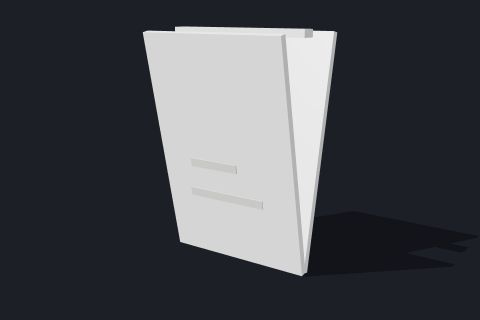
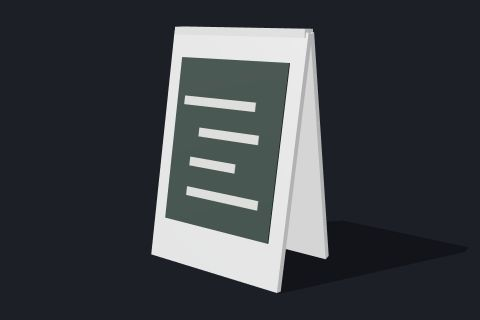
Furniture: the bench backrest and its iron uprights recline instead of leaning over the seat, the bistro chair backs lean away from the table, the utility pole braces rise from the pole to the crossarm, the A-frame's chalk panel and lines turn with their board; catalogue thumbnails rerendered (count

Changed region(s): [[0.2812, 0.0938, 0.7188, 0.9375]]

diff --git a/src/world/Furniture.js b/src/world/Furniture.js
@@ -158,10 +158,10 @@ const BUILDERS = {
   /** Slatted bench with cast-iron ends (seat faces -Z). */
   bench: (B) => {
     for (let k = 0; k < 3; k++) B.box(0, 0.45, -0.18 + k * 0.13, 1.8, 0.035, 0.1, FM.slat);
-    for (let k = 0; k < 2; k++) B.box(0, 0.62 + k * 0.15, 0.13 + k * 0.035, 1.8, 0.1, 0.03, FM.slat, { pitch: -0.25 });
+    for (let k = 0; k < 2; k++) B.box(0, 0.62 + k * 0.15, 0.13 + k * 0.035, 1.8, 0.1, 0.03, FM.slat, { pitch: 0.25 }); // +pitch: tops lean back (+Z), away from the seat
     for (const x of [-0.78, 0.78]) {
       B.box(x, 0.22, -0.2, 0.06, 0.46, 0.05, FM.iron);
-      B.box(x, 0.42, 0.14, 0.06, 0.84, 0.05, FM.iron, { pitch: -0.2 });
+      B.box(x, 0.42, 0.14, 0.06, 0.84, 0.05, FM.iron, { pitch: 0.2 }); // rear upright: foot under the seat, top behind the slats
       B.box(x, 0.62, -0.05, 0.06, 0.04, 0.42, FM.iron);
     }
   },
@@ -214,10 +214,15 @@ const BUILDERS = {
   /** Sidewalk A-frame (sandwich) board: two chalkboards leaning together; frame painted (instance colour). Boards face +-Z. */
   aframe: (B) => {
     for (const sg of [-1, 1]) {
-      const o = { pitch: -sg * 0.2 }; // tops lean in to meet under the hinge bar, feet splayed (+sg pitch stood it on its point)
-      B.box(0, 0.47, sg * 0.1, 0.62, 0.94, 0.028, FM.paint, o);
-      B.box(0, 0.5, sg * 0.117, 0.5, 0.66, 0.006, FM.chalk, o);
-      for (let k = 0; k < 4; k++) B.box(-0.04 + (k % 2) * 0.06, 0.66 - k * 0.12, sg * 0.122, 0.34 - (k % 3) * 0.06, 0.035, 0.004, FM.chalkText, o);
+      const a = -sg * 0.2, o = { pitch: a }; // tops lean in to meet under the hinge bar, feet splayed (+sg pitch stood it on its point)
+      // a part at height y and depth d off the board's centre plane, turned with the board about its centre (0.47, sg * 0.1)
+      const on = (x, y, d, sx, sy, sz, m) => {
+        const dy = y - 0.47, dz = sg * d;
+        B.box(x, 0.47 + dy * Math.cos(a) - dz * Math.sin(a), sg * 0.1 + dy * Math.sin(a) + dz * Math.cos(a), sx, sy, sz, m, o);
+      };
+      on(0, 0.47, 0, 0.62, 0.94, 0.028, FM.paint);
+      on(0, 0.5, 0.017, 0.5, 0.66, 0.006, FM.chalk);
+      for (let k = 0; k < 4; k++) on(-0.04 + (k % 2) * 0.06, 0.66 - k * 0.12, 0.022, 0.34 - (k % 3) * 0.06, 0.035, 0.004, FM.chalkText);
     }
     B.box(0, 0.93, 0, 0.6, 0.03, 0.06, FM.paint);
   },
@@ -229,8 +234,14 @@ const BUILDERS = {
       const x = sg * 0.62;
       for (const [lx, lz] of [[-0.17, -0.17], [0.17, -0.17], [0.17, 0.17], [-0.17, 0.17]]) B.box(x + lx, 0.22, lz, 0.025, 0.44, 0.025, FM.paint);
       B.box(x, 0.45, 0, 0.42, 0.03, 0.42, FM.teak);
-      B.box(x + sg * 0.2, 0.68, 0, 0.025, 0.46, 0.4, FM.paint, { roll: sg * 0.12 });
-      for (let k = 0; k < 3; k++) B.box(x + sg * 0.215 + sg * k * 0.004, 0.62 + k * 0.12, 0, 0.02, 0.07, 0.38, FM.teak, { roll: sg * 0.12 });
+      // back: its top leans out, away from the table (roll tilts the top toward -X, so -sg); teak slats on the seat side,
+      // turned with the back about its centre (x + sg * 0.2, 0.68)
+      const r = -sg * 0.12, bx = x + sg * 0.2;
+      B.box(bx, 0.68, 0, 0.025, 0.46, 0.4, FM.paint, { roll: r });
+      for (let k = 0; k < 3; k++) {
+        const dy = -0.06 + k * 0.12, dx = -sg * 0.0225;
+        B.box(bx + dx * Math.cos(r) - dy * Math.sin(r), 0.68 + dx * Math.sin(r) + dy * Math.cos(r), 0, 0.02, 0.07, 0.38, FM.teak, { roll: r });
+      }
     }
   },
   /** Tall shop-front pot with a clipped shrub (shrub tinted per instance). */
@@ -273,7 +284,7 @@ function utilityPole(B, tx) {
   B.lathe([[0.16, -0.5], [0.115, 11.0]], 7, FM.wood);
   disc(B, 0, 11.0, 0, 0.115, 7, FM.wood);
   B.box(0, 10.2, 0, 2.4, 0.1, 0.12, FM.wood);
-  for (const s of [-1, 1]) B.box(0.38 * s, 9.85, 0, 0.05, 0.75, 0.04, FM.galv, { roll: s * 0.75 });
+  for (const s of [-1, 1]) B.box(0.38 * s, 9.85, 0, 0.05, 0.75, 0.04, FM.galv, { roll: -s * 0.75 }); // braces: foot on the pole, top out under the crossarm
   for (const x of [-0.95, 0, 0.95]) B.lathe([[0.05, 0], [0.06, 0.06], [0.04, 0.1], [0.05, 0.14], [0, 0.17]], 5, FM.ceramic, M4(x, 10.25, 0));
   B.box(0.18, 7.6, 0, 0.28, 0.06, 0.06, FM.galv);
   if (tx) {
